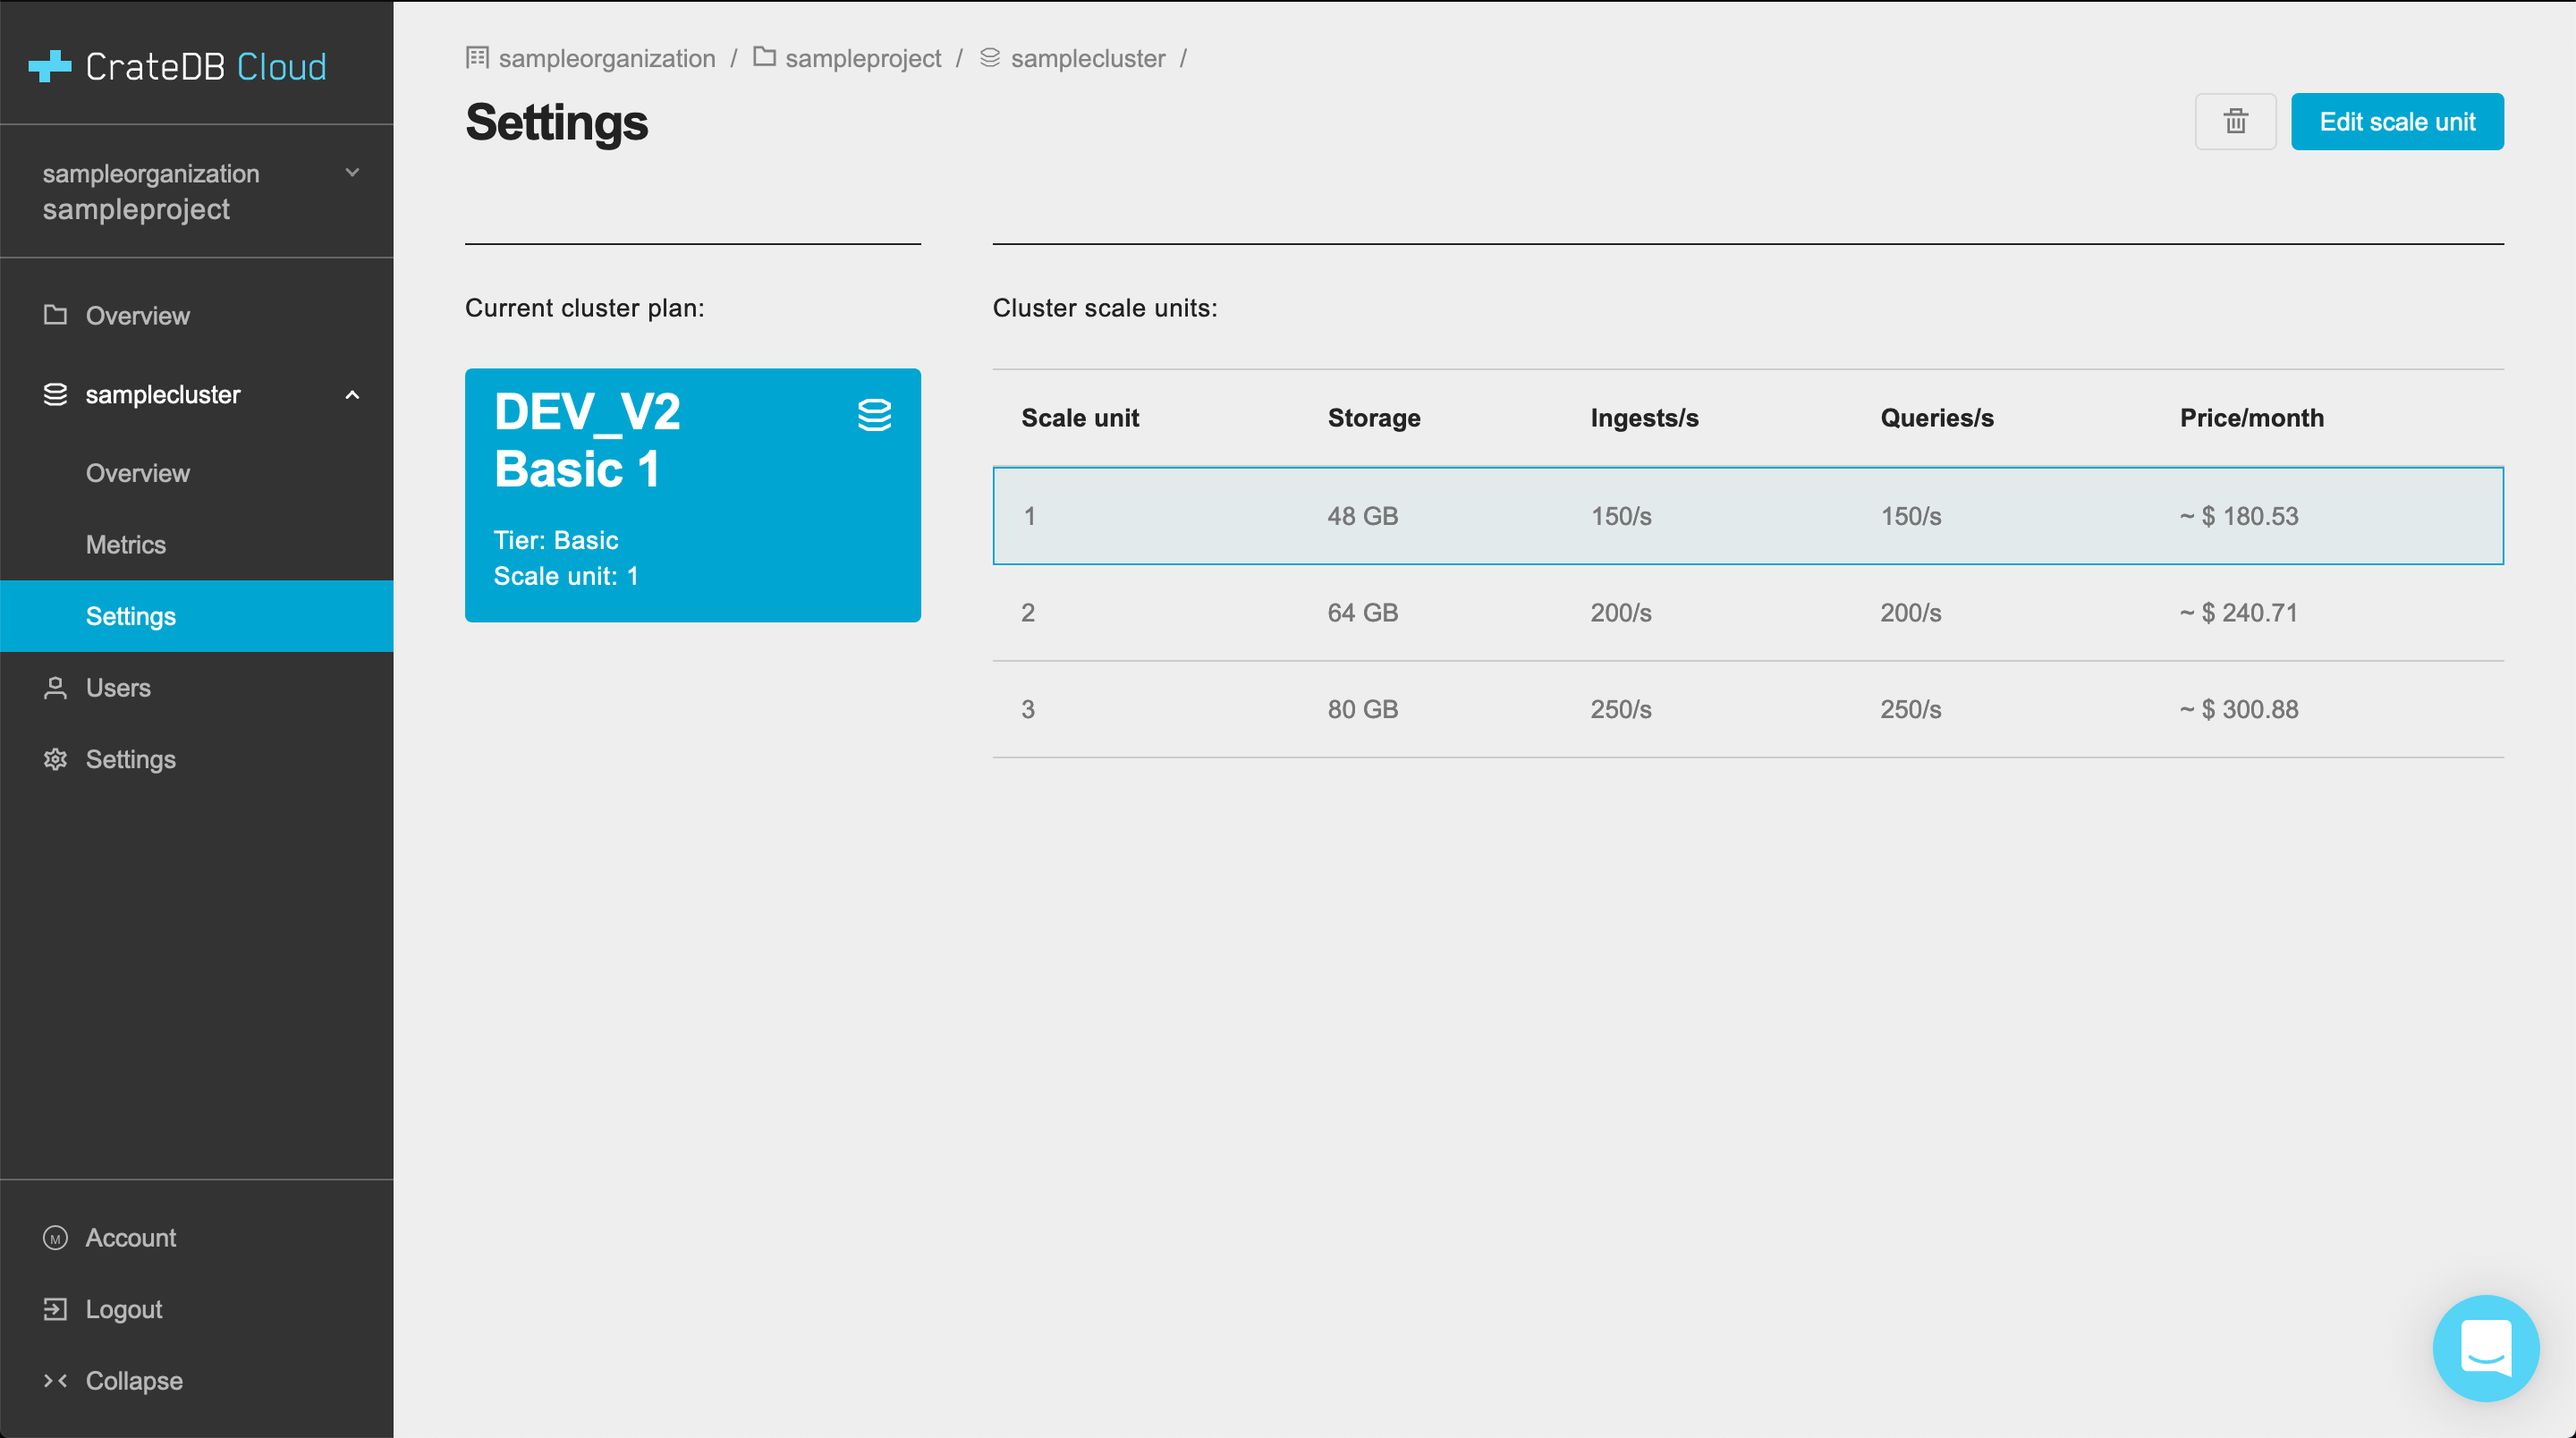
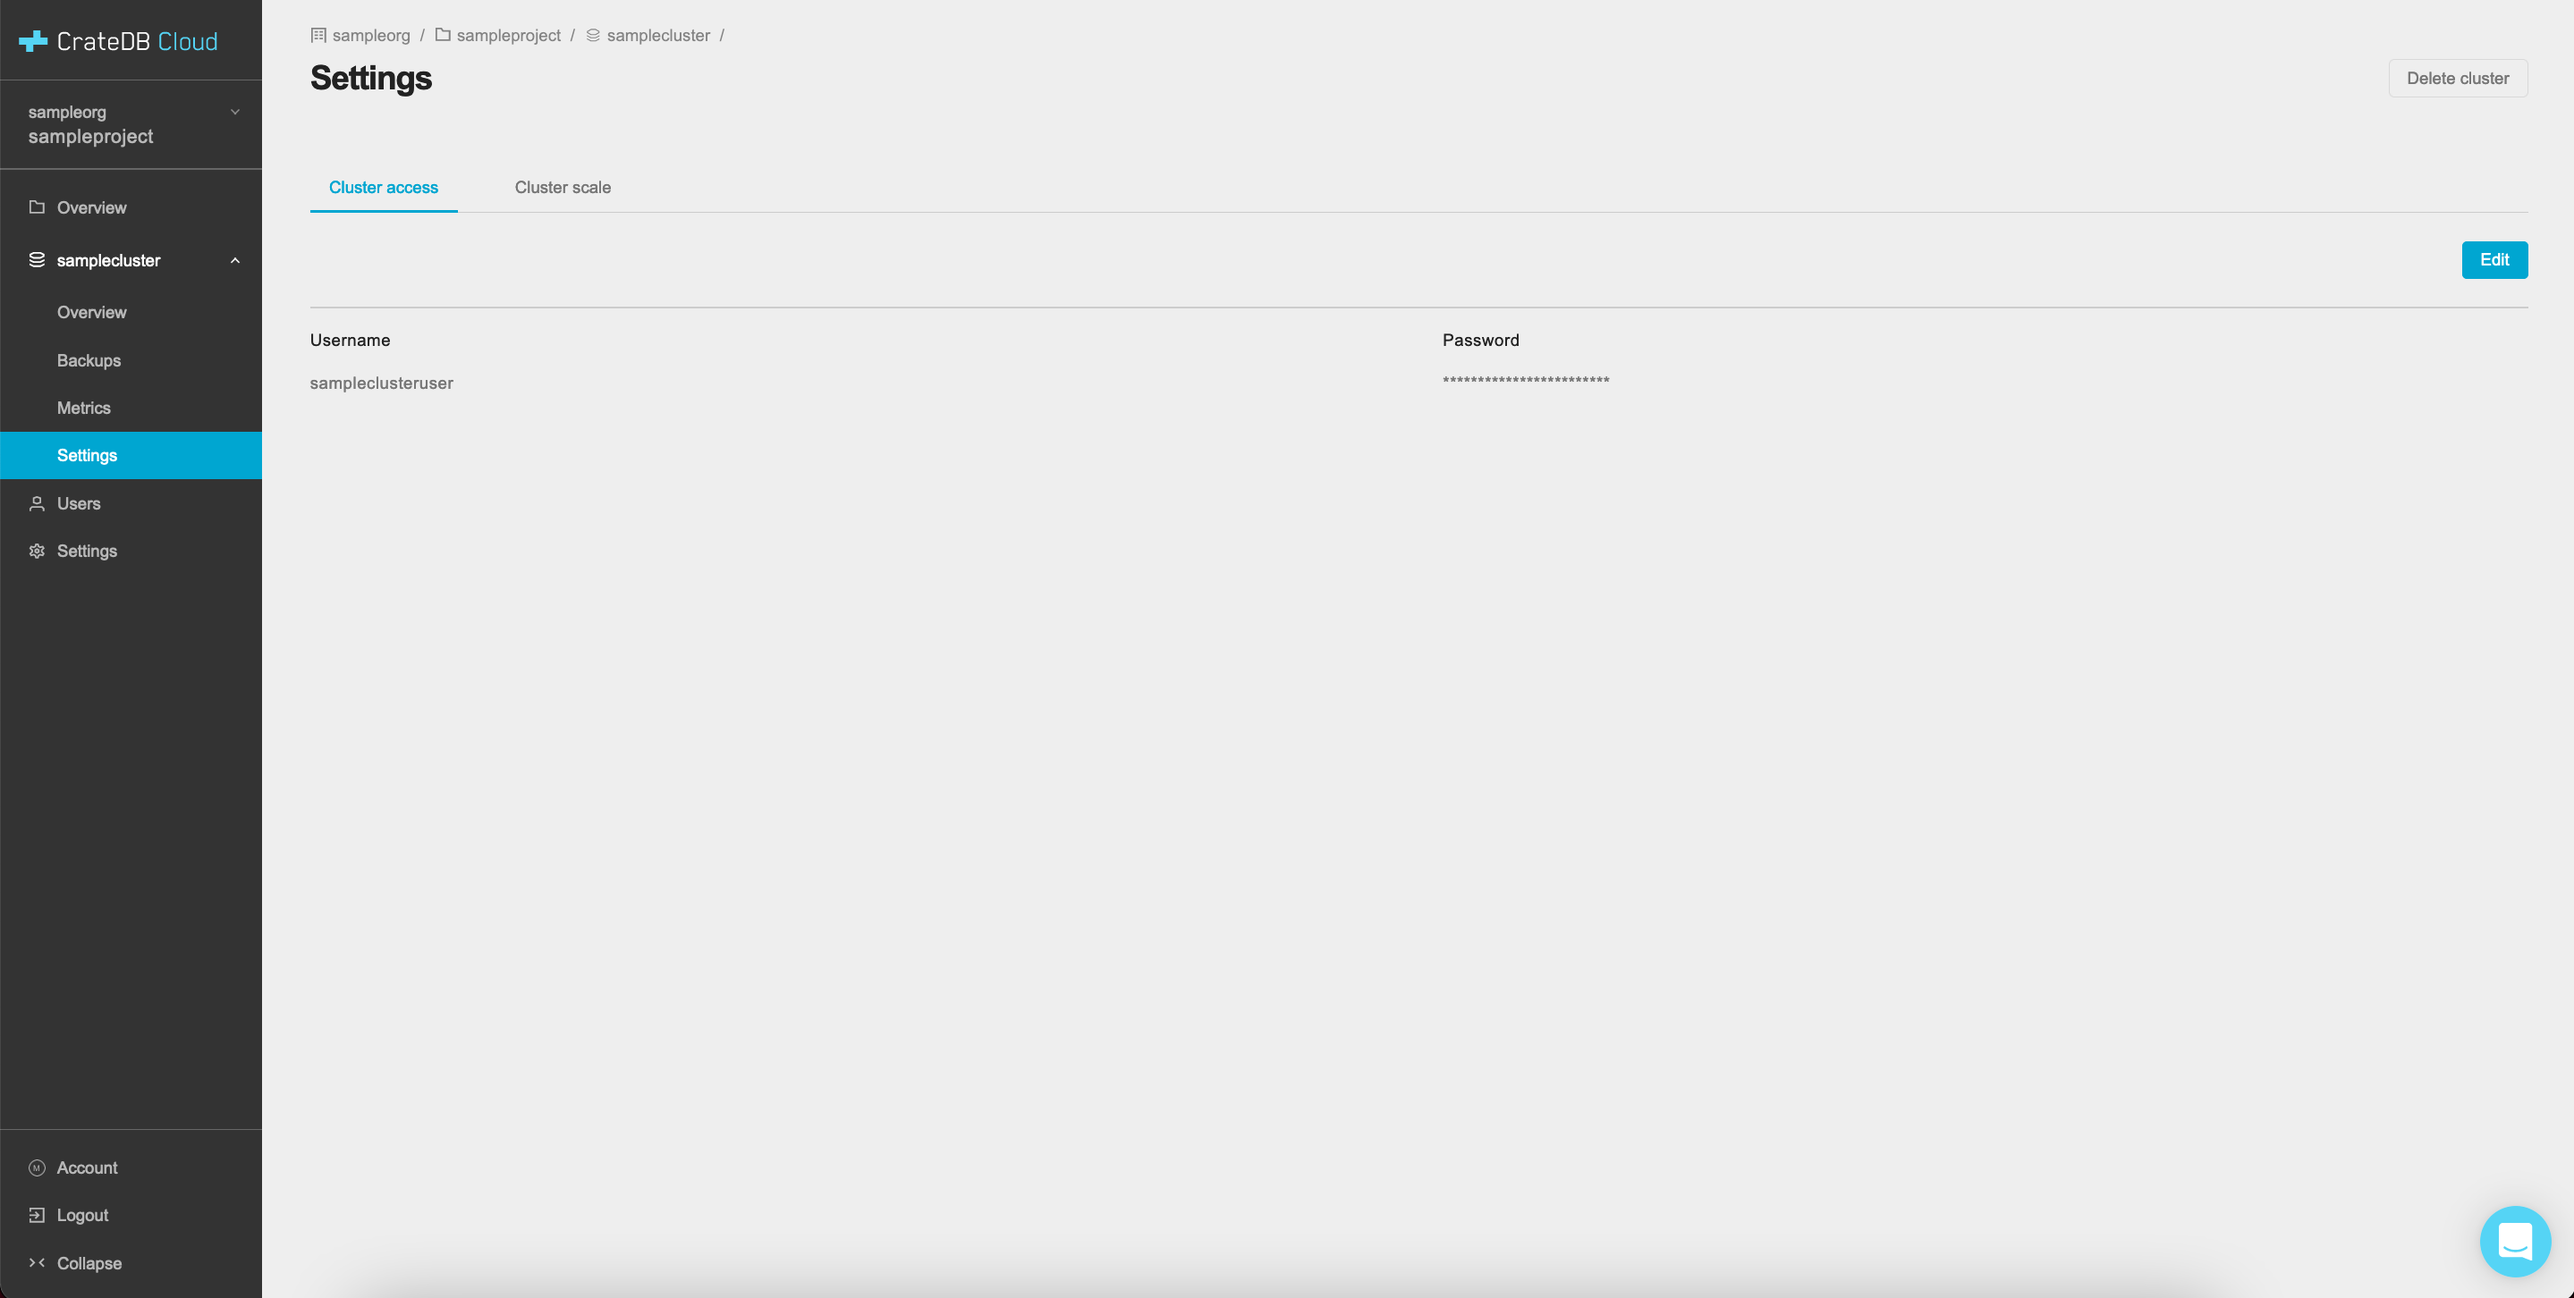
Refresh: Update to Console documentation to reflect UI changes

diff --git a/docs/overview.rst b/docs/overview.rst
@@ -53,8 +53,7 @@ If you don't have a Cloud Console account yet, follow the steps in the `signup
 tutorial`_. Select the authentication method you wish to use. From there, you
 will be given the option to sign up.
 
-Once signed in, you will be presented with your :ref:`organization overview
-<overview-org-overview>` on the Organization page.
+Once signed in, you will be presented with the Organization Overview.
 
 
 .. _overview-org-overview:
@@ -62,25 +61,25 @@ Once signed in, you will be presented with your :ref:`organization overview
 Organization
 ============
 
-The Organization page lists the organizations and projects you can access.
+The Organization Overview lists the organizations and projects you can access.
 
 If you follow the `tutorial`_ instructions and deploy a test cluster,
-your organization overview will look something like this:
+your Organization Overview will look something like this:
 
 .. image:: _assets/img/organization-overview.png
    :alt: Cloud Console organization overview
 
-The Organization screen consists of five tabs: *Subscriptions*, *Settings*,
-*Users*, the *Audit Log*, and finally *Billing*. By default it shows the
-Subscriptions tab, which displays two things. On the left, it shows the
-possible cloud providers and a link for creating a subscription with them. On
-the right, you will see your current subscription (if any). This panel also
+The Organization Overview consists of six tabs: *Subscriptions*, *Settings*,
+*Users*, the *Audit Log*, *Billing*, and finally, *Regions*. By default it
+shows the Subscriptions tab, which displays two things. On the left, it shows
+the possible cloud providers and a link for creating a subscription with them.
+On the right, you will see your current subscription (if any). This panel also
 shows subscription details: the status of the subscription, the subscription
 ID, the subscription cloud provider, the subscription type, and finally, any
 clusters deployed within the subscription with their respective subscription
 plans.
 
-The *Deploy cluster* button at the bottom left of any subscription box allows
+The *Deploy cluster* button at the bottom left of any subscription panel allows
 you to directly deploy clusters within that subscription. The button with three
 dots at the bottom right allows you to cancel that subscription.
 
@@ -155,6 +154,17 @@ On the right-hand side, you will see the billing information. This can be
 edited by using the pen icon at the top right.
 
 
+Organization Regions
+--------------------
+
+The Regions tab shows you the currently available regions for cluster
+deployment. Each panel shows the region, in other words a server location, and
+the corresponding cloud provider or subscription provider responsible for that
+region. Below each region panel you will find a button labeled *Deploy
+Cluster*. Clicking this will allow you to deploy a cluster directly into that
+region.
+
+
 .. _overview-projects:
 
 Projects
@@ -168,9 +178,10 @@ of deployment.
    :alt: Cloud Console projects overview
 
 The projects are selected by region. By default, the region dropdown menu is
-set to 'All'. To see projects deployed in specific regions, select that region
-from the menu. You can also create a new project for the organization in the
-selected region by clicking the *Create project* button in the top right.
+set to the region where your project is located (if any). To see projects
+deployed in specific regions, select that region from the menu. You can also
+create a new project for the organization in the selected region by clicking
+the *Create project* button in the top right.
 
 The cog icon next to each project takes you to the Project Settings page, in
 the menu simply called Settings, as :ref:`described further below
@@ -229,6 +240,7 @@ selected. It also displays metrics for the cluster.
 .. image:: _assets/img/cluster-overview.png
    :alt: Cloud Console cluster overview page
 
+
 Info
 ~~~~
 
@@ -274,8 +286,11 @@ information about the cluster. This includes:
 For more information on the CrateDB concepts used here, refer to the `CrateDB
 architecture documentation`_ or the :ref:`glossary<glossary>`.
 
-Metrics
-~~~~~~~
+
+.. _overview-cluster-overview-metrics:
+
+Configuration, Usage, and Metrics
+~~~~~~~~~~~~~~~~~~~~~~~~~~~~~~~~~
 
 On the rest of the page you will find various cluster metrics. In the center
 you will see an overview of general usage in the past week, including storage,
@@ -292,14 +307,34 @@ on the Cluster Metrics page, for which see below. This page can also be
 accessed by clicking the *View metrics* link at the top right.
 
 
+.. _overview-cluster-backups:
+
+Cluster Backups
+---------------
+
+On the Cluster Backups page you can see any backups of your cluster. The
+dropdown menu at the top left allows you to select the timespan of backups you
+want to see.
+
+.. image:: _assets/img/cluster-backups.png
+   :alt: Cloud Console cluster backups page
+
+Any backups are listed with timestamps on the left side, under Timestamp. In
+the middle you will see any tables to restore in the backup, under the category
+Tables, and on the right is a *Restore* button for restoring the backup from
+that timestamp, listed under Action.
+
+
 .. _overview-cluster-metrics:
 
 Cluster Metrics
 ---------------
 
-The Cluster Metrics page provides live visualizations of how the cluster is
-functioning. It shows two graph panels: one for the average response time of a
-query (in milliseconds) and one for the total number of queries per second.
+The Cluster Metrics page (not to be confused with the :ref:`metrics section of
+the Cluster Overview page <overview-cluster-overview-metrics>`) provides live
+visualizations of how the cluster is functioning. It shows two graph panels:
+one for the average response time of a query (in milliseconds) and one for the
+total number of queries per second.
 
 .. image:: _assets/img/cluster-metrics.png
    :alt: Cloud Console cluster metrics page
@@ -314,20 +349,40 @@ directly by hovering over the relevant point on the time axis (the X axis).
 Cluster Settings
 ----------------
 
-On the page for Cluster Settings you get a quick overview of the subscription
-plan configuration of the cluster.
+The Cluster Settings page has two tabs: Cluster Access and Cluster Scale. The
+default tab, Cluster Access, shows you the username and password you defined to
+access your cluster directly. By clicking *Edit* at the top right, you can
+change the password.
 
 .. image:: _assets/img/cluster-settings.png
    :alt: Cloud Console cluster settings page
 
+
+.. _overview-cluster-settings-scale:
+
+Cluster Scale
+~~~~~~~~~~~~~
+
 The blue box on the left shows the current cluster subscription plan, including
 the tier and the scale unit. The scale unit can also be adjusted on this page.
+
+.. image:: _assets/img/cluster-settings-scale.png
+   :alt: Cloud Console cluster scaling page
+
 Using the overview showing the resources and the price for different scale
 units based on the selected subscription plan and tier, you can simply click
 the *Edit scale unit* button to adjust the scaling to the desired level.
 
-You can also delete your cluster here by clicking the bin icon at the top
-right. It will prompt you for confirmation.
+.. NOTE::
+
+    Any promotions or discounts applicable to your cluster will be applied for
+    your organization as a whole at the end of the billing period. Due to
+    technical limitations, they may not be directly visible in the cluster
+    scale pricing shown here, but do not worry! This does not mean that your
+    promotion or discount is not functioning.
+
+You can also delete your cluster here by clicking the *Delete cluster* button
+at the top right. It will prompt you for confirmation.
 
 .. WARNING::
 
